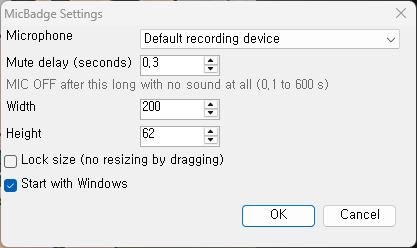
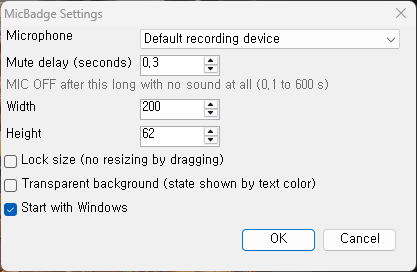
Add transparent background mode (1.1.0)

diff --git a/MicBadge.cs b/MicBadge.cs
@@ -5,6 +5,8 @@ using System;
 using System.Collections.Generic;
 using System.Diagnostics;
 using System.Drawing;
+using System.Drawing.Imaging;
+using System.Drawing.Text;
 using System.Globalization;
 using System.IO;
 using System.Runtime.InteropServices;
@@ -77,6 +79,14 @@ class MicBadge : Form
     const string RUN_KEY = @"Software\Microsoft\Windows\CurrentVersion\Run";
 
     [DllImport("user32.dll")] static extern bool SetProcessDPIAware();
+    [DllImport("user32.dll")] static extern bool UpdateLayeredWindow(IntPtr hwnd, IntPtr hdcDst, IntPtr pptDst, ref Size size, IntPtr hdcSrc, ref Point pptSrc, int key, ref BLENDFUNCTION blend, int flags);
+    [DllImport("user32.dll")] static extern IntPtr GetDC(IntPtr hwnd);
+    [DllImport("user32.dll")] static extern int ReleaseDC(IntPtr hwnd, IntPtr hdc);
+    [DllImport("gdi32.dll")] static extern IntPtr CreateCompatibleDC(IntPtr hdc);
+    [DllImport("gdi32.dll")] static extern bool DeleteDC(IntPtr hdc);
+    [DllImport("gdi32.dll")] static extern IntPtr SelectObject(IntPtr hdc, IntPtr obj);
+    [DllImport("gdi32.dll")] static extern bool DeleteObject(IntPtr obj);
+    struct BLENDFUNCTION { public byte BlendOp, BlendFlags, SourceConstantAlpha, AlphaFormat; }
 
     enum State { Unknown, On, Off }
     State state = State.Unknown;
@@ -92,6 +102,7 @@ class MicBadge : Form
     string device = "";                     // 녹음 장치 이름에 이 글자가 있으면 그 장치, 비었거나 없으면 기본 장치
     double delaySec = 0.3;                  // 완전한 0 이 이만큼 이어지면 꺼짐 (0.1초 ~ 10분)
     bool lockSize;
+    bool transparent;                       // 배경 없이 글자만, 상태는 글자 색으로
     readonly float scale;
     readonly int grip;                      // 오른쪽·아래 가장자리에서 이 픽셀 안쪽을 끌면 크기 조절
     int dragMode;                           // 0 이동, 1 너비, 2 높이, 3 둘 다
@@ -108,9 +119,6 @@ class MicBadge : Form
         ShowInTaskbar = false;
         TopMost = true;
         StartPosition = FormStartPosition.Manual;
-        DoubleBuffered = true;
-        ResizeRedraw = true;
-        Opacity = 0.9;
         using (Graphics g = CreateGraphics()) scale = g.DpiX / 96f;
         grip = (int)(6 * scale);
         MinimumSize = new Size((int)(30 * scale), (int)(14 * scale));
@@ -143,12 +151,13 @@ class MicBadge : Form
         get
         {
             CreateParams cp = base.CreateParams;
-            cp.ExStyle |= 0x08000000 | 0x80;    // WS_EX_NOACTIVATE | WS_EX_TOOLWINDOW
+            cp.ExStyle |= 0x08000000 | 0x80000 | 0x80;  // WS_EX_NOACTIVATE | WS_EX_LAYERED | WS_EX_TOOLWINDOW
             return cp;
         }
     }
 
-    protected override void OnLoad(EventArgs e) { base.OnLoad(e); OpenMic(); }
+    protected override void OnLoad(EventArgs e) { base.OnLoad(e); Render(); OpenMic(); }
+    protected override void OnSizeChanged(EventArgs e) { base.OnSizeChanged(e); Render(); }
     protected override void OnFormClosed(FormClosedEventArgs e) { CloseMic(); base.OnFormClosed(e); }
 
     // 켜져 있는 녹음 장치의 이름과 장치
@@ -265,17 +274,44 @@ class MicBadge : Form
     {
         if (s == state) return;
         state = s;
-        Invalidate();
+        Render();
     }
 
-    protected override void OnPaint(PaintEventArgs e)
+    Bitmap Draw()
     {
-        Color bg = state == State.Off ? Color.FromArgb(200, 30, 30) : state == State.On ? Color.FromArgb(30, 130, 60) : Color.Gray;
+        Color c = transparent
+            ? (state == State.Off ? Color.FromArgb(240, 50, 50) : state == State.On ? Color.FromArgb(40, 205, 90) : Color.FromArgb(160, 160, 160))
+            : (state == State.Off ? Color.FromArgb(200, 30, 30) : state == State.On ? Color.FromArgb(30, 130, 60) : Color.Gray);
         string text = state == State.Off ? "MIC OFF" : state == State.On ? "MIC ON" : "MIC ?";
-        e.Graphics.Clear(bg);
-        float px = Math.Max(6f, Math.Min(Height * 0.6f, Width / 4.8f));     // 배지 크기에 맞춘 글자 크기
-        using (Font f = new Font("Segoe UI", px, FontStyle.Bold, GraphicsUnit.Pixel))
-            TextRenderer.DrawText(e.Graphics, text, f, ClientRectangle, Color.White, TextFormatFlags.HorizontalCenter | TextFormatFlags.VerticalCenter);
+        Bitmap b = new Bitmap(Width, Height, PixelFormat.Format32bppArgb);
+        using (Graphics g = Graphics.FromImage(b))
+        {
+            g.Clear(transparent ? Color.FromArgb(1, 0, 0, 0) : Color.FromArgb(230, c));   // 완전 투명(0)이면 클릭이 통과해 끌 수 없다
+            g.TextRenderingHint = TextRenderingHint.AntiAlias;
+            float px = Math.Max(6f, Math.Min(Height * 0.6f, Width / 4.8f));     // 배지 크기에 맞춘 글자 크기
+            using (Font f = new Font("Segoe UI", px, FontStyle.Bold, GraphicsUnit.Pixel))
+            using (Brush br = new SolidBrush(transparent ? c : Color.White))
+            using (StringFormat sf = new StringFormat(StringFormatFlags.NoWrap | StringFormatFlags.NoClip))
+            {
+                sf.Alignment = sf.LineAlignment = StringAlignment.Center;
+                g.DrawString(text, f, br, new RectangleF(0, 0, Width, Height), sf);
+            }
+        }
+        return b;
+    }
+
+    // 픽셀마다 투명도를 갖는 창이라 WM_PAINT 대신 그린 그림을 통째로 넘긴다
+    void Render()
+    {
+        if (!IsHandleCreated) return;
+        using (Bitmap b = Draw())
+        {
+            IntPtr screen = GetDC(IntPtr.Zero), mem = CreateCompatibleDC(screen), hb = b.GetHbitmap(Color.FromArgb(0)), old = SelectObject(mem, hb);
+            Size size = b.Size; Point src = Point.Empty;
+            BLENDFUNCTION bf = new BLENDFUNCTION { SourceConstantAlpha = 255, AlphaFormat = 1 };    // AC_SRC_ALPHA
+            UpdateLayeredWindow(Handle, screen, IntPtr.Zero, ref size, mem, ref src, 0, ref bf, 2);  // ULW_ALPHA
+            SelectObject(mem, old); DeleteObject(hb); DeleteDC(mem); ReleaseDC(IntPtr.Zero, screen);
+        }
     }
 
     int Zone(Point p)
@@ -323,6 +359,7 @@ class MicBadge : Form
                 if (kv.Length == 2) d[kv[0]] = kv[1];
             }
             if (d.ContainsKey("device")) device = d["device"];
+            transparent = d.ContainsKey("transparent") && d["transparent"] == "1";
             Point pt = new Point(int.Parse(d["x"]), int.Parse(d["y"]));
             foreach (Screen sc in Screen.AllScreens) if (sc.Bounds.Contains(pt)) Location = pt;
             Size = new Size(int.Parse(d["w"]), int.Parse(d["h"]));
@@ -334,8 +371,8 @@ class MicBadge : Form
 
     void SaveSettings()
     {
-        File.WriteAllText(iniFile, string.Format(CultureInfo.InvariantCulture, "x={0}\r\ny={1}\r\nw={2}\r\nh={3}\r\ndelay={4}\r\nlock={5}\r\ndevice={6}\r\n",
-            Left, Top, Width, Height, delaySec, lockSize ? 1 : 0, device));
+        File.WriteAllText(iniFile, string.Format(CultureInfo.InvariantCulture, "x={0}\r\ny={1}\r\nw={2}\r\nh={3}\r\ndelay={4}\r\nlock={5}\r\ndevice={6}\r\ntransparent={7}\r\n",
+            Left, Top, Width, Height, delaySec, lockSize ? 1 : 0, device, transparent ? 1 : 0));
     }
 
     void ShowSettings()
@@ -377,6 +414,7 @@ class MicBadge : Form
             NumericUpDown delay = Number(0.1m, 600m, (decimal)delaySec, 1);
             NumericUpDown w = Number(MinimumSize.Width, 4000, Width, 0), h = Number(MinimumSize.Height, 4000, Height, 0);
             CheckBox locked = Check(T("크기 잠금 (끌어서 크기 조절 안 함)", "Lock size (no resizing by dragging)"), lockSize);
+            CheckBox clear = Check(T("배경 투명 (상태는 글자 색으로 표시)", "Transparent background (state shown by text color)"), transparent);
             CheckBox autostart = Check(T("Windows 시작 시 자동 실행", "Start with Windows"), run.GetValue("MicBadge") != null);
 
             t.Controls.Add(Caption(T("마이크", "Microphone")), 0, 0); t.Controls.Add(mic, 1, 0);
@@ -387,7 +425,8 @@ class MicBadge : Form
             t.Controls.Add(Caption(T("너비", "Width")), 0, 3); t.Controls.Add(w, 1, 3);
             t.Controls.Add(Caption(T("높이", "Height")), 0, 4); t.Controls.Add(h, 1, 4);
             t.Controls.Add(locked, 0, 5); t.SetColumnSpan(locked, 2);
-            t.Controls.Add(autostart, 0, 6); t.SetColumnSpan(autostart, 2);
+            t.Controls.Add(clear, 0, 6); t.SetColumnSpan(clear, 2);
+            t.Controls.Add(autostart, 0, 7); t.SetColumnSpan(autostart, 2);
 
             FlowLayoutPanel buttons = new FlowLayoutPanel();
             buttons.AutoSize = true;
@@ -396,7 +435,7 @@ class MicBadge : Form
             ok.Text = T("확인", "OK"); ok.DialogResult = DialogResult.OK; ok.AutoSize = true;
             cancel.Text = T("취소", "Cancel"); cancel.DialogResult = DialogResult.Cancel; cancel.AutoSize = true;
             buttons.Controls.Add(ok); buttons.Controls.Add(cancel);
-            t.Controls.Add(buttons, 0, 7); t.SetColumnSpan(buttons, 2);
+            t.Controls.Add(buttons, 0, 8); t.SetColumnSpan(buttons, 2);
             f.AcceptButton = ok; f.CancelButton = cancel;
 
             if (f.ShowDialog() != DialogResult.OK) return;
@@ -404,7 +443,9 @@ class MicBadge : Form
             if (picked != device) { device = picked; CloseMic(); OpenMic(); }
             delaySec = (double)delay.Value;
             lockSize = locked.Checked;
+            transparent = clear.Checked;
             Size = new Size((int)w.Value, (int)h.Value);
+            Render();
             if (autostart.Checked) run.SetValue("MicBadge", "\"" + Application.ExecutablePath + "\"");
             else run.DeleteValue("MicBadge", false);
             SaveSettings();
